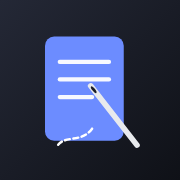
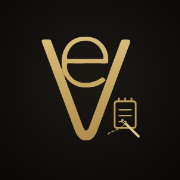
Vaghezze Notes: nuovo nome, icone oro su nero, colori Vaghezze, barra in basso, cache v4

diff --git a/privacy.html b/privacy.html
@@ -1,8 +1,9 @@
 <!DOCTYPE html><html lang="it"><head><meta charset="UTF-8"><meta name="viewport" content="width=device-width, initial-scale=1.0, viewport-fit=cover">
-<title>Privacy · Reworked Notes</title><meta name="theme-color" content="#1a1d27"><link rel="icon" type="image/png" href="favicon-32.png"><link rel="apple-touch-icon" href="apple-touch-icon.png"><link rel="manifest" href="manifest.json"><link rel="stylesheet" href="legal.css"></head>
-<body><main><a class="back" href="./">← Torna a Reworked Notes</a><h1>Privacy</h1><p>Titolare del trattamento: <strong>Pi.Gi Service</strong>, Via Guido Reni 8, 35133 Padova (PD), P.IVA 05770260288 — <a href="mailto:info@pigiservice.com">info@pigiservice.com</a>, PEC <a href="mailto:pigiservice@pec.it">pigiservice@pec.it</a>.</p>
+<title>Privacy · Vaghezze Notes</title><meta name="theme-color" content="#0B1F3A"><link rel="icon" type="image/png" href="favicon-32.png"><link rel="apple-touch-icon" href="apple-touch-icon.png"><link rel="manifest" href="manifest.json"><link rel="stylesheet" href="legal.css"></head>
+<body><main><a class="back" href="./">← Torna a Vaghezze Notes</a><h1>Privacy</h1><p>Titolare del trattamento: <strong>Pi.Gi Service</strong>, Via Guido Reni 8, 35133 Padova (PD), P.IVA 05770260288 — <a href="mailto:info@pigiservice.com">info@pigiservice.com</a>, PEC <a href="mailto:pigiservice@pec.it">pigiservice@pec.it</a>.</p>
 <h2>Quali dati usa l'app</h2><p>Idee, scelte e foto di ispirazione restano <strong>solo nel tuo browser</strong>, su questo dispositivo. Non vengono inviate a noi né ad altri. Se cancelli i dati del browser o disinstalli l'app, le idee si perdono: usa «Copia tutte le idee» per tenerne una copia.</p>
 <h2>Dove si trova l'app</h2><p>L'app è pubblicata su GitHub Pages (GitHub, Inc.). Come ogni sito, il server può registrare dati tecnici di accesso (per esempio l'indirizzo IP) per sicurezza e funzionamento, secondo la privacy di GitHub. Noi non usiamo strumenti di analisi né pubblicità.</p>
-<h2>I tuoi diritti</h2><p>Puoi chiederci informazioni, accesso, correzione o cancellazione scrivendo a <a href="mailto:info@pigiservice.com">info@pigiservice.com</a>. Puoi anche rivolgerti al Garante per la protezione dei dati personali (garanteprivacy.it).</p><p class="muted">Ultimo aggiornamento: 11 ottobre 2026</p></main><footer><p><strong>Pi.Gi Service</strong> · Via Guido Reni 8, 35133 Padova (PD) · P.IVA 05770260288</p>
+<h2>I tuoi diritti</h2><p>Puoi chiederci informazioni, accesso, correzione o cancellazione scrivendo a <a href="mailto:info@pigiservice.com">info@pigiservice.com</a>. Puoi anche rivolgerti al Garante per la protezione dei dati personali (garanteprivacy.it).</p><p class="muted">Ultimo aggiornamento: 11 ottobre 2026</p></main><footer><p class="brand-line"><strong>Vaghezze Notes</strong> · un'app di <a href="https://vaghezze.com">vaghezze.com</a></p>
+    <p><strong>Pi.Gi Service</strong> · Via Guido Reni 8, 35133 Padova (PD) · P.IVA 05770260288</p>
 <p><a href="mailto:info@pigiservice.com">info@pigiservice.com</a> · PEC <a href="mailto:pigiservice@pec.it">pigiservice@pec.it</a> · <a href="tel:+393520966114">+39 352 0966114</a></p>
 <p><a href="privacy.html">Privacy</a> · <a href="termini.html">Termini</a> · <a href="cookie.html">Cookie</a></p></footer></body></html>

diff --git a/termini.html b/termini.html
@@ -1,9 +1,10 @@
 <!DOCTYPE html><html lang="it"><head><meta charset="UTF-8"><meta name="viewport" content="width=device-width, initial-scale=1.0, viewport-fit=cover">
-<title>Termini di utilizzo · Reworked Notes</title><meta name="theme-color" content="#1a1d27"><link rel="icon" type="image/png" href="favicon-32.png"><link rel="apple-touch-icon" href="apple-touch-icon.png"><link rel="manifest" href="manifest.json"><link rel="stylesheet" href="legal.css"></head>
-<body><main><a class="back" href="./">← Torna a Reworked Notes</a><h1>Termini di utilizzo</h1><p>Fornitore: <strong>Pi.Gi Service</strong>, Via Guido Reni 8, 35133 Padova (PD), P.IVA 05770260288.</p><p>Reworked Notes ti aiuta ad annotare idee di abbigliamento reworked, anche senza rete. È gratuita e non addebita nulla.</p>
+<title>Termini di utilizzo · Vaghezze Notes</title><meta name="theme-color" content="#0B1F3A"><link rel="icon" type="image/png" href="favicon-32.png"><link rel="apple-touch-icon" href="apple-touch-icon.png"><link rel="manifest" href="manifest.json"><link rel="stylesheet" href="legal.css"></head>
+<body><main><a class="back" href="./">← Torna a Vaghezze Notes</a><h1>Termini di utilizzo</h1><p>Fornitore: <strong>Pi.Gi Service</strong>, Via Guido Reni 8, 35133 Padova (PD), P.IVA 05770260288.</p><p>Vaghezze Notes ti aiuta ad annotare idee di abbigliamento reworked, anche senza rete. È gratuita e non addebita nulla.</p>
 <p>Le idee sono salvate solo sul tuo dispositivo: non possiamo recuperarle se le cancelli. Sei responsabile dei contenuti e delle foto che carichi.</p>
 <h2>Servizio così com'è</h2><p>L'app è offerta così com'è, senza garanzia di funzionamento continuo. Possiamo aggiornarla o cambiarla.</p>
 <h2>Contatti</h2><p>Per domande: <a href="mailto:info@pigiservice.com">info@pigiservice.com</a> · <a href="tel:+393520966114">+39 352 0966114</a>.</p>
-<h2>Legge applicabile</h2><p>Legge italiana. Restano salvi i diritti che la legge riconosce ai consumatori.</p><p class="muted">Ultimo aggiornamento: 11 ottobre 2026</p></main><footer><p><strong>Pi.Gi Service</strong> · Via Guido Reni 8, 35133 Padova (PD) · P.IVA 05770260288</p>
+<h2>Legge applicabile</h2><p>Legge italiana. Restano salvi i diritti che la legge riconosce ai consumatori.</p><p class="muted">Ultimo aggiornamento: 11 ottobre 2026</p></main><footer><p class="brand-line"><strong>Vaghezze Notes</strong> · un'app di <a href="https://vaghezze.com">vaghezze.com</a></p>
+    <p><strong>Pi.Gi Service</strong> · Via Guido Reni 8, 35133 Padova (PD) · P.IVA 05770260288</p>
 <p><a href="mailto:info@pigiservice.com">info@pigiservice.com</a> · PEC <a href="mailto:pigiservice@pec.it">pigiservice@pec.it</a> · <a href="tel:+393520966114">+39 352 0966114</a></p>
 <p><a href="privacy.html">Privacy</a> · <a href="termini.html">Termini</a> · <a href="cookie.html">Cookie</a></p></footer></body></html>

diff --git a/index.html b/index.html
@@ -3,14 +3,14 @@
 <head>
   <meta charset="UTF-8">
   <meta name="viewport" content="width=device-width, initial-scale=1.0, viewport-fit=cover">
-  <title>Reworked Notes · Idee di abbigliamento reworked al volo</title>
+  <title>Vaghezze Notes · Idee di abbigliamento reworked al volo</title>
   <meta name="description" content="Annota al volo le idee per capi reworked, con tipo di capo, stile e foto di ispirazione. Funziona anche senza rete.">
-  <meta name="application-name" content="Reworked Notes">
+  <meta name="application-name" content="Vaghezze Notes">
   <meta name="apple-mobile-web-app-capable" content="yes">
   <meta name="mobile-web-app-capable" content="yes">
-  <meta name="apple-mobile-web-app-title" content="Reworked Notes">
+  <meta name="apple-mobile-web-app-title" content="Vaghezze Notes">
   <meta name="apple-mobile-web-app-status-bar-style" content="black-translucent">
-  <meta name="theme-color" content="#1a1d27">
+  <meta name="theme-color" content="#0B1F3A">
   <link rel="manifest" href="manifest.json">
   <link rel="icon" type="image/png" sizes="32x32" href="favicon-32.png">
   <link rel="icon" type="image/svg+xml" href="icon.svg">
@@ -22,10 +22,10 @@
 <body>
   <header>
     <div class="head-title">
-      <h1>Reworked Notes</h1>
+      <h1>Vaghezze Notes</h1>
       <span id="count" class="count"></span>
     </div>
-    <button type="button" id="installBtn" class="install-btn" hidden aria-label="Metti Reworked Notes nella schermata Home">⤓ Metti in home</button>
+    <button type="button" id="installBtn" class="install-btn" hidden aria-label="Metti Vaghezze Notes nella schermata Home">⤓ Metti in home</button>
   </header>
 
   <main class="container">
@@ -70,7 +70,7 @@
 
     <section class="info-panel tab-pane" data-tab="info" aria-label="Info">
       <div class="card">
-        <h2>Reworked Notes</h2>
+        <h2>Vaghezze Notes</h2>
         <p>Annoti al volo le idee per capi reworked: descrizione, tipo di capo, stile e una foto di ispirazione.</p>
         <ul class="info-list">
           <li>Le idee restano solo su questo telefono, anche senza rete.</li>
@@ -83,6 +83,7 @@
   </main>
 
   <footer class="pigi-footer tab-pane" data-tab="info">
+    <p class="brand-line"><strong>Vaghezze Notes</strong> · un'app di <a href="https://vaghezze.com">vaghezze.com</a></p>
     <p><strong>Pi.Gi Service</strong> · Via Guido Reni 8, 35133 Padova (PD) · P.IVA 05770260288</p>
     <p><a href="mailto:info@pigiservice.com">info@pigiservice.com</a> · PEC <a href="mailto:pigiservice@pec.it">pigiservice@pec.it</a> · <a href="tel:+393520966114">+39 352 0966114</a></p>
     <p class="pigi-links"><a href="privacy.html">Privacy</a> · <a href="termini.html">Termini</a> · <a href="cookie.html">Cookie</a></p>

diff --git a/cookie.html b/cookie.html
@@ -1,6 +1,7 @@
 <!DOCTYPE html><html lang="it"><head><meta charset="UTF-8"><meta name="viewport" content="width=device-width, initial-scale=1.0, viewport-fit=cover">
-<title>Cookie · Reworked Notes</title><meta name="theme-color" content="#1a1d27"><link rel="icon" type="image/png" href="favicon-32.png"><link rel="apple-touch-icon" href="apple-touch-icon.png"><link rel="manifest" href="manifest.json"><link rel="stylesheet" href="legal.css"></head>
-<body><main><a class="back" href="./">← Torna a Reworked Notes</a><h1>Cookie</h1><p><strong>Questa app non usa cookie</strong>, né di profilazione né di analisi. Per questo non ti chiediamo il consenso.</p>
-<p>Usa solo la memoria del browser (localStorage e cache dell'app) per salvare i tuoi dati sul dispositivo e per funzionare senza rete. Sono strumenti tecnici necessari: puoi cancellarli quando vuoi dalle impostazioni del browser.</p><p class="muted">Ultimo aggiornamento: 11 ottobre 2026</p></main><footer><p><strong>Pi.Gi Service</strong> · Via Guido Reni 8, 35133 Padova (PD) · P.IVA 05770260288</p>
+<title>Cookie · Vaghezze Notes</title><meta name="theme-color" content="#0B1F3A"><link rel="icon" type="image/png" href="favicon-32.png"><link rel="apple-touch-icon" href="apple-touch-icon.png"><link rel="manifest" href="manifest.json"><link rel="stylesheet" href="legal.css"></head>
+<body><main><a class="back" href="./">← Torna a Vaghezze Notes</a><h1>Cookie</h1><p><strong>Questa app non usa cookie</strong>, né di profilazione né di analisi. Per questo non ti chiediamo il consenso.</p>
+<p>Usa solo la memoria del browser (localStorage e cache dell'app) per salvare i tuoi dati sul dispositivo e per funzionare senza rete. Sono strumenti tecnici necessari: puoi cancellarli quando vuoi dalle impostazioni del browser.</p><p class="muted">Ultimo aggiornamento: 11 ottobre 2026</p></main><footer><p class="brand-line"><strong>Vaghezze Notes</strong> · un'app di <a href="https://vaghezze.com">vaghezze.com</a></p>
+    <p><strong>Pi.Gi Service</strong> · Via Guido Reni 8, 35133 Padova (PD) · P.IVA 05770260288</p>
 <p><a href="mailto:info@pigiservice.com">info@pigiservice.com</a> · PEC <a href="mailto:pigiservice@pec.it">pigiservice@pec.it</a> · <a href="tel:+393520966114">+39 352 0966114</a></p>
 <p><a href="privacy.html">Privacy</a> · <a href="termini.html">Termini</a> · <a href="cookie.html">Cookie</a></p></footer></body></html>

diff --git a/styles.css b/styles.css
@@ -1,8 +1,8 @@
 :root {
-  --bg: #0f1117;
-  --surface: #1a1d27;
-  --surface-2: #242836;
-  --border: #2e3344;
+  --bg: #081a31;
+  --surface: #0d2340;
+  --surface-2: #14305a;
+  --border: #24426c;
   --text: #e8eaed;
   --muted: #9aa0b0;
   --accent: #6c8cff;
@@ -22,7 +22,7 @@ body {
 header {
   position: sticky;
   top: 0;
-  background: rgba(15,17,23,0.9);
+  background: rgba(8,26,49,0.92);
   backdrop-filter: blur(12px);
   padding: 1rem 1.2rem;
   border-bottom: 1px solid var(--border);
@@ -124,7 +124,7 @@ select {
   background-repeat: no-repeat; background-position: right .9rem center; padding-right: 2.4rem;
   color: var(--text);
 }
-select option { background: #242836; color: #e8eaed; }
+select option { background: #14305a; color: #e8eaed; }
 input[type=file] { font-size: .9rem; }
 
 /* Sezioni a schede sul telefono (barra in basso). Da 900px tutto visibile come prima. */

diff --git a/legal.css b/legal.css
@@ -1,4 +1,4 @@
-:root{--bg:#0f1117;--surface:#1a1d27;--border:#2e3344;--text:#e8eaed;--muted:#9aa0b0;--accent:#6c8cff}
+:root{--bg:#081a31;--surface:#0d2340;--border:#24426c;--text:#e8eaed;--muted:#9aa0b0;--accent:#6c8cff}
 *{box-sizing:border-box}body{margin:0;font-family:system-ui,-apple-system,'Segoe UI',Roboto,sans-serif;background:var(--bg);color:var(--text);line-height:1.6;overflow-x:hidden;-webkit-text-size-adjust:100%}
 main{max-width:720px;margin:0 auto;padding:calc(1.2rem + env(safe-area-inset-top)) 1.1rem 2rem}
 a{color:var(--accent)}h1{font-size:1.5rem;margin:.6rem 0 1rem}h2{font-size:1.05rem;margin:1.4rem 0 .4rem}p,li{font-size:.95rem;overflow-wrap:anywhere}

diff --git a/sw.js b/sw.js
@@ -1,6 +1,6 @@
-// Service worker Reworked Notes: app disponibile anche senza rete.
+// Service worker Vaghezze Notes: app disponibile anche senza rete.
 // Cambia CACHE a ogni nuova versione: la vecchia cache viene cancellata.
-const CACHE = 'reworked-notes-v3';
+const CACHE = 'vaghezze-notes-v4';
 const ASSETS = [
   './', './index.html', './styles.css', './app.js', './install.js', './install.css', './nav.js', './nav.css', './manifest.json',
   './icon.svg', './favicon-32.png', './icon-192.png', './icon-512.png', './icon-maskable-192.png', './icon-maskable-512.png',

diff --git a/nav.css b/nav.css
@@ -5,7 +5,7 @@
   .bottom-nav {
     display: grid; grid-auto-flow: column; grid-auto-columns: 1fr;
     position: fixed; left: 0; right: 0; bottom: 0; z-index: 50;
-    background: rgba(26, 29, 39, .97);
+    background: rgba(13, 35, 64, .97);
     -webkit-backdrop-filter: blur(12px); backdrop-filter: blur(12px);
     border-top: 1px solid var(--border);
     padding: 6px max(6px, env(safe-area-inset-left)) calc(6px + env(safe-area-inset-bottom)) max(6px, env(safe-area-inset-right));

diff --git a/app.js b/app.js
@@ -1,4 +1,4 @@
-// Reworked Notes — idee di abbigliamento reworked al volo (dati solo su questo dispositivo)
+// Vaghezze Notes — idee di abbigliamento reworked al volo (dati solo su questo dispositivo)
 const ideaText = document.getElementById('ideaText');
 const itemType = document.getElementById('itemType');
 const style = document.getElementById('style');

diff --git a/README.md b/README.md
@@ -1,4 +1,4 @@
-# Reworked Notes
+# Vaghezze Notes
 
 PWA statica (HTML, CSS, JS) di Pi.Gi Service, Padova. Installabile su iPhone e Android, funziona anche senza rete. I dati restano sul dispositivo (localStorage).
 
